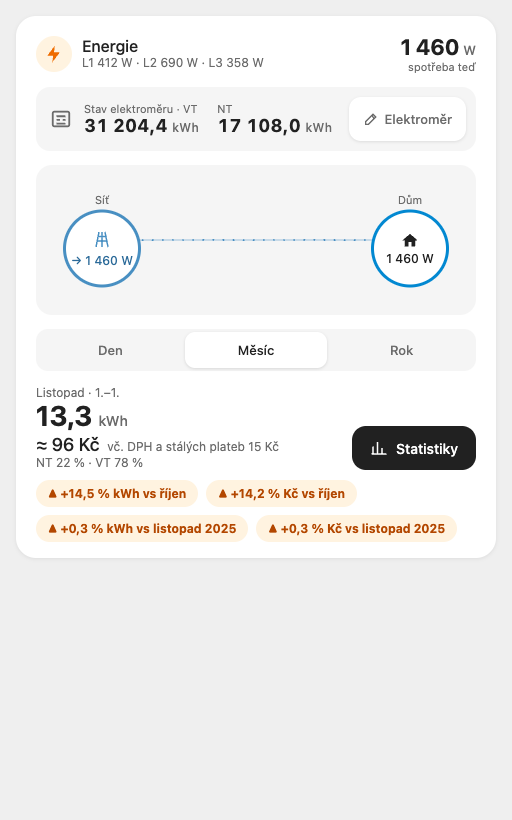
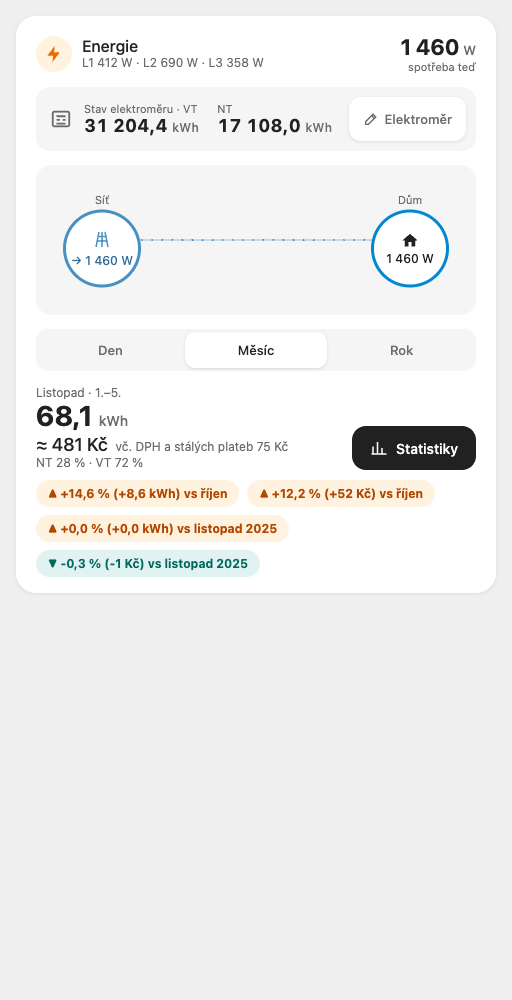
Stats: browse past days / months / years; card chips show the difference
- Card chips read "▲ +14,6 % (+8,6 kWh) vs říjen" (and in Kč).
- Stats dialog: arrows go back by the selected period, Dnes returns to the
  current one. A whole past period compares whole periods; if its
  statistics end early it is like-for-like up to there. Past results are
  cached without expiry, only the viewed one is kept.
- Version 0.2.0.

Claude-Session: https://claude.ai/code/session_01RVUxo5VW7r4mnvLPnprt8u

diff --git a/dist/energy-card.js b/dist/energy-card.js
@@ -10,7 +10,7 @@
  * weekend days). https://github.com/eMalinos/energy-card
  */
 
-const VERSION = '0.1.2';
+const VERSION = '0.2.0';
 
 const REQUIRED = ['energy_entity', 'power_entity', 'meter_vt', 'meter_nt', 'meter_history', 'meter_script'];
 const CACHE_MS = 5 * 60 * 1000;
@@ -143,7 +143,17 @@ export function fixedFor(lists, from, to) {
 }
 
 // Like-for-like ranges: the comparison period up to the same offset (day clamped to the month's last day).
+// At a period's last millisecond (a whole past period, see anchor()) the comparisons are whole too.
 export function ranges(now, gran) {
+  const r = likeRanges(now, gran);
+  if (!complete(now, gran)) return r;
+  const whole = (rg) => rg && [rg[0], new Date(+periodEnd(gran, rg[0]) - 1)];
+  return { cur: r.cur, prev: whole(r.prev), yoy: whole(r.yoy) };
+}
+
+const complete = (now, gran) => +now + 1 === +periodEnd(gran, likeRanges(now, gran).cur[0]);
+
+function likeRanges(now, gran) {
   const Y = now.getFullYear(), M = now.getMonth(), D = now.getDate();
   const at = (y, m, d) => new Date(y, m, Math.min(d, daysIn(y, m)), now.getHours(), now.getMinutes(), now.getSeconds(), now.getMilliseconds());
   const day0 = (x) => new Date(x.getFullYear(), x.getMonth(), x.getDate());
@@ -181,16 +191,26 @@ const HOUR_MS = 3600000;
 export const hourFloor = (d) => new Date(Math.floor(+d / HOUR_MS) * HOUR_MS);
 
 // Where the current range's data ends: the end of its last hourly row (statistics lag behind
-// `now`), never past the current full hour and never before the range start.
+// `now`), never past the current full hour and never before the range start. (+1 ms: a past
+// period is anchored at its last millisecond, see anchor(), and its last hour is complete.)
 export function dataEnd(curHours, start, now) {
   const last = curHours.reduce((m, h) => Math.max(m, +h.start + HOUR_MS), +start);
-  return new Date(Math.max(+start, Math.min(last, +hourFloor(now))));
+  return new Date(Math.max(+start, Math.min(last, +hourFloor(new Date(+now + 1)))));
+}
+
+// `now` for the period `offset` periods back (0 = the current one): the past one's last millisecond.
+export function anchor(now, gran, offset) {
+  if (!offset) return now;
+  const s = ranges(now, gran).cur[0];
+  const start = gran === 'day' ? new Date(s.getFullYear(), s.getMonth(), s.getDate() + offset)
+    : gran === 'month' ? new Date(s.getFullYear(), s.getMonth() + offset, 1) : new Date(s.getFullYear() + offset, 0, 1);
+  return new Date(+periodEnd(gran, start) - 1);
 }
 
 // Like-for-like over complete hours: cut every range at the offset where the current data ends,
 // then sum each. `cur`, `prev`, `yoy` = hours fetched for ranges(hourFloor(now), gran).
 export function analyze(gran, now, lists, cur, prev, yoy) {
-  const end = dataEnd(cur, ranges(now, gran).cur[0], now);
+  const end = new Date(Math.min(+dataEnd(cur, ranges(now, gran).cur[0], now), +now));
   const r = ranges(end, gran);
   const cut = (hs, rg) => (hs && rg ? hs.filter((h) => h.start >= rg[0] && h.start < rg[1]) : null);
   const hours = { cur: cut(cur, r.cur), prev: cut(prev, r.prev), yoy: cut(yoy, r.yoy) };
@@ -220,9 +240,14 @@ export function pct(cur, prev) {
 }
 
 // Period names: card range label, stats names and span, chip labels.
-export function names(now, gran) {
+export function names(now, gran, past = false) {
   const Y = now.getFullYear(), M = now.getMonth(), D = now.getDate();
   const r = ranges(now, gran);
+  if (past) { // statistics may end early in a past period: then it is like-for-like up to there
+    const n = names(now, gran);
+    const span = complete(now, gran) ? { day: 'celý den', month: 'celý měsíc', year: 'celý rok' }[gran] : n.span;
+    return gran === 'day' ? { ...n, cur: czDate(now), prev: czDate(r.prev[0]), span } : { ...n, span };
+  }
   if (gran === 'day') {
     const time = `${pad(now.getHours())}:${pad(now.getMinutes())}`;
     const yoy = czDate(r.yoy[0]);
@@ -266,6 +291,8 @@ const ICON = {
   house: '<svg width="18" height="18" viewBox="0 0 24 24" fill="currentColor" aria-hidden="true"><path d="M12 3 2 12h3v8h5v-6h4v6h5v-8h3z"></path></svg>',
   stats: '<svg width="18" height="18" viewBox="0 0 24 24" fill="none" stroke="currentColor" stroke-width="2" aria-hidden="true"><path d="M4 20V10M10 20V4M16 20v-8M22 20H2"></path></svg>',
   check: '<svg width="16" height="16" viewBox="0 0 24 24" fill="none" stroke="currentColor" stroke-width="2" aria-hidden="true"><path d="M20 6 9 17l-5-5"></path></svg>',
+  prev: '<svg width="20" height="20" viewBox="0 0 24 24" fill="none" stroke="currentColor" stroke-width="2" aria-hidden="true"><path d="M15 6l-6 6 6 6"></path></svg>',
+  next: '<svg width="20" height="20" viewBox="0 0 24 24" fill="none" stroke="currentColor" stroke-width="2" aria-hidden="true"><path d="M9 6l6 6-6 6"></path></svg>',
   close: '<svg width="20" height="20" viewBox="0 0 24 24" fill="none" stroke="currentColor" stroke-width="2" aria-hidden="true"><path d="M6 6l12 12M18 6 6 18"></path></svg>',
 };
 
@@ -322,6 +349,9 @@ dialog::backdrop{background:rgba(0,0,0,.4)}
 .dhead{display:flex;align-items:center;gap:10px}
 .dhead h3{margin:0;flex:1;font-size:18px;font-weight:500}
 .x{width:44px;height:44px;border:0;border-radius:12px;background:transparent;display:flex;align-items:center;justify-content:center}
+.nav{display:flex;align-items:center;gap:8px;margin:-6px 0}
+.nav b{flex:1;text-align:center;font-size:15px;font-weight:500}
+.x:disabled{opacity:.3;cursor:default}
 .pills{display:flex;gap:8px;flex-wrap:wrap}
 .pills button{height:36px;padding:0 14px;border-radius:18px;font-size:13px;font-weight:500;border:1px solid var(--ec-line);background:var(--ec-bg)}
 .pills button[aria-checked="true"]{background:var(--ec-text);border-color:var(--ec-text);color:var(--ec-bg)}
@@ -358,7 +388,12 @@ dialog::backdrop{background:rgba(0,0,0,.4)}
 .err{color:var(--error-color,#db4437)}
 `;
 
-const chipHtml = (p, unit, label) => (p == null ? '' : `<span class="chip ${p > 0 ? 'up' : 'down'}">${p > 0 ? '▲ +' : '▼ '}${fmt(p, 1)} % ${unit} ${esc(label)}</span>`);
+const diff = (cur, prev, d, unit) => `${cur > prev ? '+' : ''}${fmt(cur - prev, d)} ${unit}`;
+const chipHtml = (cur, prev, d, unit, label) => {
+  const p = pct(cur, prev);
+  return p == null ? '' : `<span class="chip ${p > 0 ? 'up' : 'down'}">${p > 0 ? '▲ +' : '▼ '}${fmt(p, 1)} % (${diff(cur, prev, d, unit)}) ${esc(label)}</span>`;
+};
+const cacheKey = (gran, offset) => (offset ? `${gran}${offset}` : gran);
 
 class EnergyCard extends (globalThis.HTMLElement ?? class {}) {
   constructor() {
@@ -366,7 +401,7 @@ class EnergyCard extends (globalThis.HTMLElement ?? class {}) {
     this._gran = 'month';
     this._cache = {}; // gran -> {at, now, cur, prev, yoy} (hours) or {at, now, error}
     this._loading = {};
-    this._stats = { gran: 'month', cmp: 'prev', unit: 'kwh' };
+    this._stats = { gran: 'month', cmp: 'prev', unit: 'kwh', offset: 0 };
     this._meter = null; // meter pop-up form while open
     this.attachShadow({ mode: 'open' });
     this.shadowRoot.innerHTML = `<style>${STYLE}</style><div class="card"></div><dialog class="stats" aria-label="Statistiky energie"></dialog><dialog class="meterdlg" aria-label="Elektroměr"></dialog>`;
@@ -383,7 +418,7 @@ class EnergyCard extends (globalThis.HTMLElement ?? class {}) {
       if (document.visibilityState !== 'visible') return;
       for (const c of Object.values(this._cache)) c.at = 0;
       this._load(this._gran);
-      if (this._statsDlg.open) this._load(this._stats.gran);
+      if (this._statsDlg.open) this._load(this._stats.gran, this._stats.offset);
     };
   }
 
@@ -410,7 +445,7 @@ class EnergyCard extends (globalThis.HTMLElement ?? class {}) {
     if (this._card.firstChild) this._live(); else this._render();
     if (this._meter && this._meterDlg.open) this._refreshMeter();
     this._load(this._gran);
-    if (this._statsDlg.open) this._load(this._stats.gran);
+    if (this._statsDlg.open) this._load(this._stats.gran, this._stats.offset);
   }
 
   getCardSize() {
@@ -430,26 +465,28 @@ class EnergyCard extends (globalThis.HTMLElement ?? class {}) {
     document.removeEventListener('visibilitychange', this._onVisibility);
   }
 
-  // Hours of the ranges of `gran` with their summaries, cached for 5 minutes and per range start
-  // (Den rolls over at midnight).
-  _load(gran) {
-    if (!this._hass || !this._cfg || this._loading[gran]) return;
-    const now = new Date();
+  // Hours of the ranges of `gran` (`offset` periods back) with their summaries, cached for 5 minutes
+  // and per range start (Den rolls over at midnight).
+  _load(gran, offset = 0) {
+    const ck = cacheKey(gran, offset);
+    if (!this._hass || !this._cfg || this._loading[ck]) return;
+    const now = anchor(new Date(), gran, offset);
     const key = +ranges(now, gran).cur[0];
-    const c = this._cache[gran];
-    if (c && c.key === key && Date.now() - c.at < CACHE_MS) return;
-    const r = ranges(hourFloor(now), gran);
+    const c = this._cache[ck];
+    if (c && c.key === key && ((offset && !c.error) || Date.now() - c.at < CACHE_MS)) return;
+    const r = ranges(offset ? now : hourFloor(now), gran);
     const cfg = this._cfg;
-    const get = (rg) => (rg ? fetchHours(this._hass, cfg.energy_entity, rg[0], rg[1]) : Promise.resolve(null));
-    this._loading[gran] = Promise.all([get(r.cur), get(r.prev), get(r.yoy)])
+    // a past range ends at its last millisecond: fetch up to the full hour so its last row comes too
+    const get = (rg) => (rg ? fetchHours(this._hass, cfg.energy_entity, rg[0], new Date(+rg[1] + (offset ? 1 : 0))) : Promise.resolve(null));
+    this._loading[ck] = Promise.all([get(r.cur), get(r.prev), get(r.yoy)])
       .then(([cur, prev, yoy]) => ({ at: Date.now(), key, ...analyze(gran, now, cfg.price_lists, cur, prev, yoy) }))
       .catch((e) => ({ at: Date.now(), key, error: e?.message || String(e) }))
       .then((res) => {
-        this._loading[gran] = null;
-        if (cfg !== this._cfg) return this._load(gran); // config changed meanwhile: load for the new one
-        this._cache[gran] = res;
-        if (gran === this._gran) this._render();
-        if (this._statsDlg.open && gran === this._stats.gran) this._renderStats();
+        this._loading[ck] = null;
+        if (cfg !== this._cfg) return this._load(gran, offset); // config changed meanwhile: load for the new one
+        this._cache[ck] = res;
+        if (!offset && gran === this._gran) this._render();
+        if (this._statsDlg.open && gran === this._stats.gran && offset === this._stats.offset) this._renderStats();
       });
   }
 
@@ -473,16 +510,26 @@ class EnergyCard extends (globalThis.HTMLElement ?? class {}) {
         this._load(v);
         break;
       case 'stats':
-        this._stats = { gran: this._gran, cmp: 'prev', unit: 'kwh' };
+        this._stats = { gran: this._gran, cmp: 'prev', unit: 'kwh', offset: 0 };
         this._renderStats();
         this._statsDlg.showModal();
         this._load(this._gran);
         break;
       case 'sgran':
         this._stats.gran = v;
+        this._stats.offset = 0;
         this._renderStats();
         this._load(v);
         break;
+      case 'snav': { // older / newer period, 0 = Dnes; past results kept for the viewed one only
+        const s = this._stats;
+        s.offset = v === '0' ? 0 : Math.min(0, s.offset + Number(v));
+        const keep = cacheKey(s.gran, s.offset);
+        for (const k of Object.keys(this._cache)) if (!GRANS[k] && k !== keep) delete this._cache[k];
+        this._renderStats();
+        this._load(s.gran, s.offset);
+        break;
+      }
       case 'scmp':
         this._stats.cmp = v;
         this._renderStats();
@@ -570,7 +617,7 @@ class EnergyCard extends (globalThis.HTMLElement ?? class {}) {
       const d = this._gran === 'year' ? 0 : 1;
       const nt = this._twoTariffs() && cur.kwh > 0 ? Math.round((cur.ntKwh / cur.kwh) * 100) : null;
       // no consumption in the comparison period = no data yet: no chip (fixed fees alone would compare as +1000 %)
-      const both = (o, label) => (o && o.kwh > 0 ? chipHtml(pct(cur.kwh, o.kwh), 'kWh', label) + chipHtml(pct(cur.total, o.total), 'Kč', label) : '');
+      const both = (o, label) => (o && o.kwh > 0 ? chipHtml(cur.kwh, o.kwh, d, 'kWh', label) + chipHtml(cur.total, o.total, 0, 'Kč', label) : '');
       const chips = both(prev, n.chipPrev) + both(yoy, n.chipYoy);
       body = `<div><div class="note">${esc(n.range)}</div><div class="big">${fmt(cur.kwh, d)} <small>kWh</small></div>`
         + `<div class="kc"><b>≈ ${fmt(cur.total, 0)} Kč</b><span class="note">vč. DPH a stálých plateb ${fmt(cur.fixed, 0)} Kč</span></div>`
@@ -587,13 +634,22 @@ class EnergyCard extends (globalThis.HTMLElement ?? class {}) {
 
   _renderStats() {
     const s = this._stats;
-    const head = `<div class="dhead"><h3>Statistiky energie</h3><div class="seg units" role="radiogroup" aria-label="Jednotky">`
+    const past = s.offset < 0;
+    const today = past ? `<button class="btn2" data-act="snav" data-val="0">Dnes</button>` : '';
+    const head = `<div class="dhead"><h3>Statistiky energie</h3>${today}<div class="seg units" role="radiogroup" aria-label="Jednotky">`
       + [['kwh', 'kWh'], ['kc', 'Kč']].map(([id, l]) => `<button role="radio" aria-checked="${s.unit === id}" data-act="sunit" data-val="${id}">${l}</button>`).join('')
       + `</div><button class="x" aria-label="Zavřít" data-act="close">${ICON.close}</button></div>`;
-    const tabs = `<div class="seg" role="tablist" aria-label="Období">${Object.entries(GRANS).map(([id, l]) => `<button role="tab" aria-selected="${s.gran === id}" data-act="sgran" data-val="${id}">${l}</button>`).join('')}</div>`;
-    const c = this._cache[s.gran];
+    const nav = `<div class="nav"><button class="x" aria-label="Předchozí" data-act="snav" data-val="-1">${ICON.prev}</button>`
+      + `<b>${esc(names(anchor(new Date(), s.gran, s.offset), s.gran, past).cur)}</b>`
+      + `<button class="x" aria-label="Další" data-act="snav" data-val="1"${past ? '' : ' disabled'}>${ICON.next}</button></div>`;
+    const tabs = `<div class="seg" role="tablist" aria-label="Období">${Object.entries(GRANS).map(([id, l]) => `<button role="tab" aria-selected="${s.gran === id}" data-act="sgran" data-val="${id}">${l}</button>`).join('')}</div>${nav}`;
+    const c = this._cache[cacheKey(s.gran, s.offset)];
     if (!c || !c.cur) {
       this._statsDlg.innerHTML = `<div class="dlg">${head}${tabs}<div class="note${c?.error ? ' err' : ''}">${c?.error ? esc(c.error) : 'Načítám statistiky…'}</div></div>`;
+      return;
+    }
+    if (past && !c.hours.cur.length) {
+      this._statsDlg.innerHTML = `<div class="dlg">${head}${tabs}<div class="note">Za toto období nejsou statistiky.</div></div>`;
       return;
     }
     const lists = this._cfg.price_lists;
@@ -601,7 +657,7 @@ class EnergyCard extends (globalThis.HTMLElement ?? class {}) {
     const kc = s.unit === 'kc';
     const cmp = gran === 'year' ? 'prev' : s.cmp;
     const { r, end } = c;
-    const nm = names(end, gran);
+    const nm = names(end, gran, past);
     const last = new Date(Math.max(+r.cur[0], +end - 1)); // the last hour with data
     const n = gran === 'day' ? 24 : gran === 'month' ? daysIn(end.getFullYear(), end.getMonth()) : 12;
     const val = (b) => (kc ? b.kc : b.kwh);
@@ -626,17 +682,17 @@ class EnergyCard extends (globalThis.HTMLElement ?? class {}) {
     const kpis = [
       { l: gran === 'day' ? 'Ø za hodinu' : gran === 'year' ? 'Ø za měsíc' : 'Ø za den', v: `${fmt(curV / elapsed, 1)} ${u}` },
       { l: 'Špička', v: `${peakLabel} · ${fmt(cur[peak], 1)} ${u}` },
-      { l: 'Rozdíl', v: `${curV > prevV ? '+' : ''}${fmt(curV - prevV, d)} ${u}` },
+      { l: 'Rozdíl', v: diff(curV, prevV, d, u) },
       kc
         ? { l: 'Vč. stálých plateb', v: `≈ ${fmt(curV + c.cur.fixed, 0)} Kč` }
-        : { l: 'Odhad za celé období', v: `≈ ${fmt(share > 0 ? curV / share : 0, 0)} kWh` },
+        : { l: past ? 'Vč. stálých plateb' : 'Odhad za celé období', v: past ? `≈ ${fmt(c.cur.total, 0)} Kč` : `≈ ${fmt(share > 0 ? curV / share : 0, 0)} kWh` },
     ];
     const cmpPills = gran === 'year' ? '' : `<div class="pills" role="radiogroup" aria-label="Porovnat s">${[['prev', nm.prev], ['yoy', nm.yoy]].map(([id, l]) => `<button role="radio" aria-checked="${cmp === id}" data-act="scmp" data-val="${id}">vs ${esc(l)}</button>`).join('')}</div>`;
     const unpriced = kc && (c.cur.unpriced || (cmp === 'yoy' ? c.yoy : c.prev).unpriced);
     this._statsDlg.innerHTML = `<div class="dlg">${head}${tabs}${cmpPills}`
       + `<div class="cmp"><div><div class="note">${esc(nm.cur)} · ${esc(nm.span)}</div><div class="v">${fmt(curV, d)} <span class="unit">${u}</span></div></div>`
       + `<div style="padding-bottom:4px"><div class="note">${esc(prevName)} · ${esc(nm.span)}</div><div class="p">${fmt(prevV, d)} ${u}</div></div><div class="sp"></div>`
-      + (p == null ? '' : `<span class="chip ${p > 0 ? 'up' : 'down'}" style="margin-bottom:6px;font-size:13px">${p > 0 ? '▲ +' : '▼ '}${fmt(p, 1)} % (${curV > prevV ? '+' : ''}${fmt(curV - prevV, d)} ${u})</span>`) + '</div>'
+      + (p == null ? '' : `<span class="chip ${p > 0 ? 'up' : 'down'}" style="margin-bottom:6px;font-size:13px">${p > 0 ? '▲ +' : '▼ '}${fmt(p, 1)} % (${diff(curV, prevV, d, u)})</span>`) + '</div>'
       + `<div><div class="bars">${bars}</div><div class="blab">${labels}</div></div>`
       + `<div class="legend"><span><i class="c"></i>${esc(nm.cur)}</span><span><i></i>${esc(prevName)}</span></div>`
       + `<div class="kpis">${kpis.map((k) => `<div><span class="lbl">${k.l}</span><b>${k.v}</b></div>`).join('')}</div>`

diff --git a/tests/dom.html b/tests/dom.html
@@ -78,6 +78,7 @@
 
   const shot = new URLSearchParams(location.search).get('shot');
   if (shot === 'stats') { click('[data-act="stats"]'); await tick(200); }
+  if (shot === 'statsPast') { click('[data-act="stats"]'); await tick(200); click('[data-act="snav"][data-val="-1"]'); await tick(300); }
   if (shot === 'meter') { click('[data-act="meter"]'); type('#m_vt', '31 210,5'); type('#m_nt', '17 109'); await tick(); }
   if (shot) { document.getElementById('out').remove(); throw 'shot'; }
 
@@ -87,7 +88,7 @@
   r.twoRegisters = root.querySelectorAll('.meter .reg').length === 2 && $('.meter .reg').textContent.replace(/\s/g, ' ').startsWith('31 204,4');
   r.monthDefault = $('[data-act="gran"][aria-selected="true"]').dataset.val === 'month';
   r.kwhShown = !$('.big').textContent.startsWith('–') && /≈ [\d\s]+ Kč/.test($('.kc b').textContent);
-  r.fourChips = root.querySelectorAll('.chips .chip').length === 4;
+  r.fourChips = root.querySelectorAll('.chips .chip').length === 4 && /% \([+-]?[\d\s,]+ kWh\) vs/.test($('.chips .chip').textContent);
   r.ntLine = /^NT \d+ % · VT \d+ %$/.test([...root.querySelectorAll('.sum .note')].map((n) => n.textContent).find((t) => t.startsWith('NT')) || '');
   r.flowAnimated = !!$('.flow .fl') && !$('.flow').classList.contains('idle');
 
@@ -141,6 +142,15 @@
   r.statsYear = dlg.querySelectorAll('.bars > div').length === 12 && !dlg.querySelector('.pills');
   click('[data-act="sgran"][data-val="day"]'); await tick(200);
   r.statsDay = dlg.querySelectorAll('.bars > div').length === 24;
+  // history: back one day, Dnes returns; the next arrow is off on the current period
+  r.navNextOff = dlg.querySelector('[data-act="snav"][data-val="1"]').disabled && !dlg.querySelector('[data-act="snav"][data-val="0"]');
+  click('[data-act="snav"][data-val="-1"]'); await tick(200);
+  const y = new Date(now.getFullYear(), now.getMonth(), now.getDate() - 1);
+  r.navBack = dlg.querySelector('.nav b').textContent === `${y.getDate()}. ${y.getMonth() + 1}. ${y.getFullYear()}`
+    && !!card._cache['day-1']?.cur && !dlg.querySelector('[data-act="snav"][data-val="1"]').disabled
+    && dlg.querySelectorAll('.bars > div').length === 24;
+  click('[data-act="snav"][data-val="0"]'); await tick();
+  r.navToday = dlg.querySelector('.nav b').textContent === 'Dnes' && !dlg.querySelector('[data-act="snav"][data-val="0"]');
   dlg.querySelector('[data-act="close"]').click(); await tick();
   r.statsClosed = !dlg.open;
 

diff --git a/README.md b/README.md
@@ -12,7 +12,7 @@ A Home Assistant card for household electricity: how much was used and what it c
 - **Meter reading**: the VT and NT registers (one value with a single-tariff price list), with an **Elektroměr** button for calibration and meter replacement.
 - **Flow**: grid → house with the current power (the animation stops with the system's reduce-motion setting).
 - **Den / Měsíc / Rok**: kWh, cost ≈ Kč incl. VAT and fixed fees, the NT / VT share, and changes vs the previous period and vs last year, in kWh and in Kč. Comparisons are like-for-like: this month 1.–today against last month 1.–the same day and time.
-- **Statistiky**: bars per hour / day / month against the previous period or last year, in kWh or Kč, average, peak, difference and an estimate for the whole period.
+- **Statistiky**: bars per hour / day / month against the previous period or last year, in kWh or Kč, average, peak, difference and an estimate for the whole period; arrows browse back by day / month / year (a past period compares whole periods), **Dnes** returns to the current one.
 - **Elektroměr**: align the registers with the physical meter, or record a new meter (date, old meter's final values, new meter's start values); history of both.
 - Follows your theme's card background and text colours.
 
@@ -22,9 +22,9 @@ A Home Assistant card for household electricity: how much was used and what it c
 
 **Manual:** copy [`dist/energy-card.js`](dist/energy-card.js) (or the file from the latest release) to your Home Assistant `config/www/` folder, then add it as a dashboard resource:
 
-Settings → Dashboards → ⋮ → Resources → Add resource → URL `/local/energy-card.js?v=0.1.2`, type **JavaScript module** → reload the browser.
+Settings → Dashboards → ⋮ → Resources → Add resource → URL `/local/energy-card.js?v=0.2.0`, type **JavaScript module** → reload the browser.
 
-After copying a new version, change `?v=` in the resource URL (e.g. `?v=0.1.2`), otherwise browsers keep the old file.
+After copying a new version, change `?v=` in the resource URL (e.g. `?v=0.2.0`), otherwise browsers keep the old file.
 
 ## Configuration
 
@@ -121,7 +121,7 @@ python3 -m http.server 8765 &
 "Google Chrome" --headless=new --virtual-time-budget=5000 --dump-dom http://localhost:8765/tests/dom.html | grep RESULT
 ```
 
-`tests/dom.html?shot=card|stats|meter` renders the card with a fake `hass` for screenshots.
+`tests/dom.html?shot=card|stats|statsPast|meter` renders the card with a fake `hass` for screenshots.
 
 ## License
 
